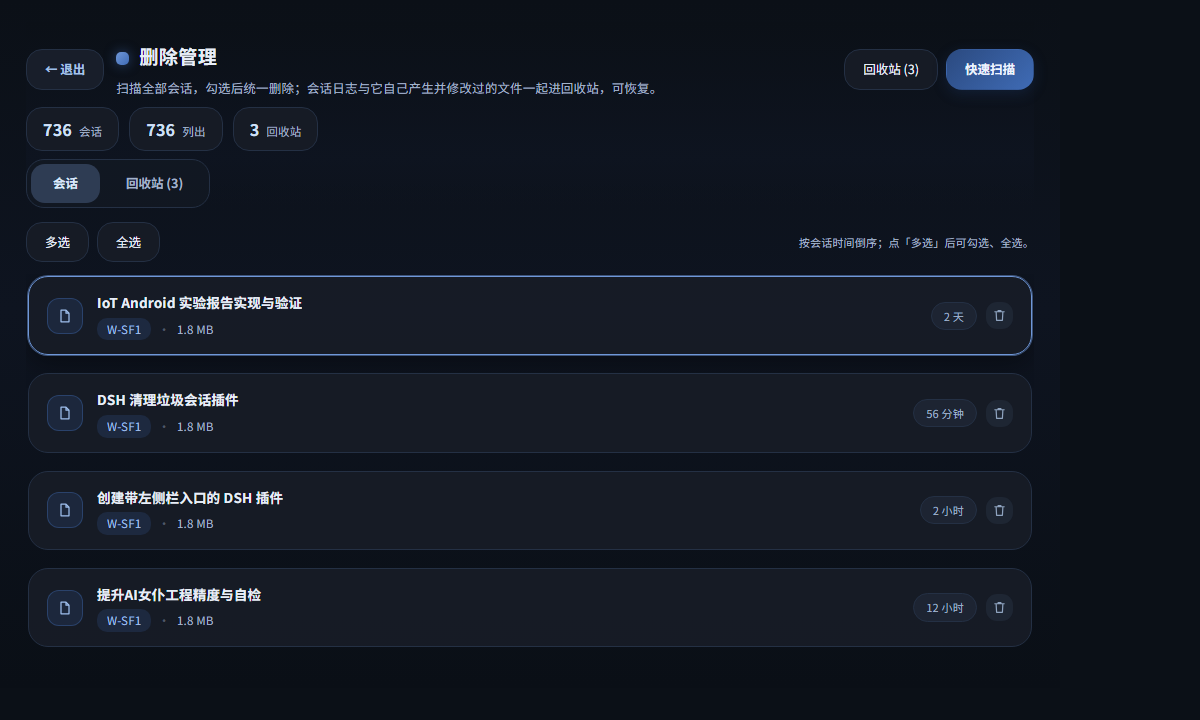
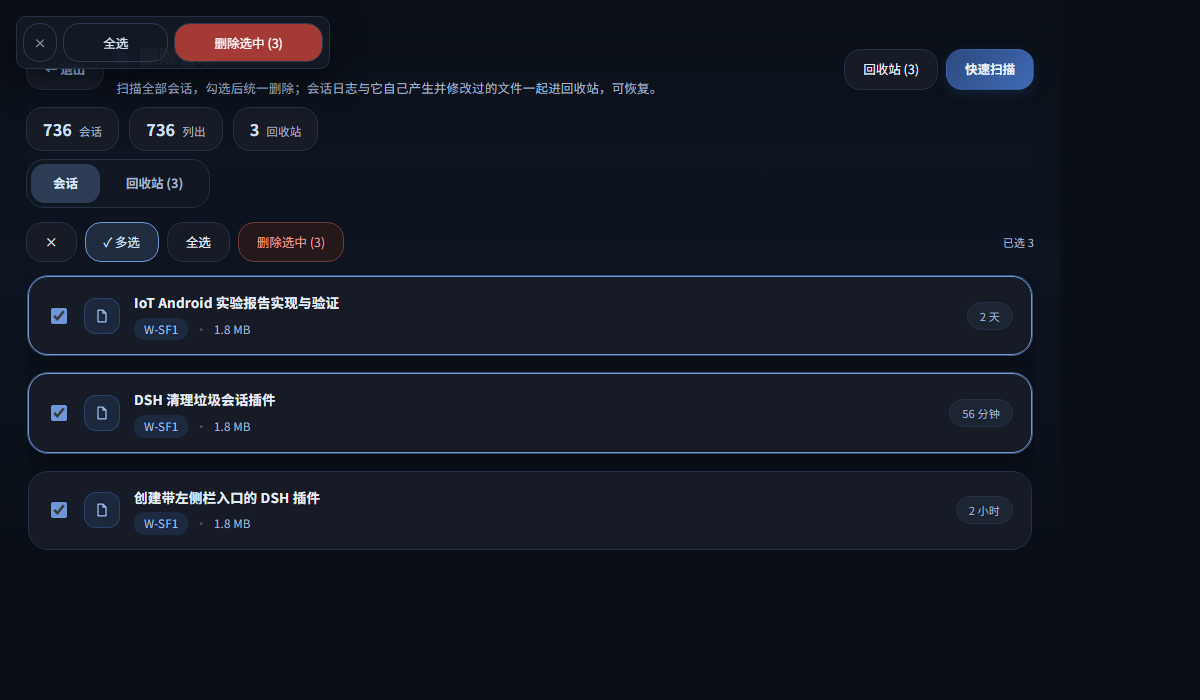
feat: × 移到左侧；页面多选工具条加 × 并隐藏重复开关（1.2.2）

diff --git a/preview.html b/preview.html
@@ -1,6 +1,12 @@
 <!doctype html><html lang="zh"><head><meta charset="utf-8">
 <style>body{margin:0;background:#0b1017;font-family:"Noto Sans SC","Microsoft YaHei UI",sans-serif}
 html .__md_page{display:flex;flex-direction:column;gap:12px;max-width:1060px;height:100%;overflow-y:auto;overflow-x:hidden;padding:22px 26px 30px;font-size:13px;box-sizing:border-box;font-family:"Noto Sans SC","Microsoft YaHei UI","Microsoft YaHei","Segoe UI",system-ui,sans-serif;letter-spacing:.2px;line-height:1.65;--md-ink:#e8eef8;--md-ink2:#a3b3c9;--md-card:rgba(23,28,38,.94);--md-card2:rgba(30,36,48,.92);--md-line:#243044;--md-accent:#3f6bb5;--md-accent2:#6f97d8;--md-accent-deep:#2b4a80;color:var(--md-ink);background:linear-gradient(180deg,#0b1017 0%,#0e1420 45%,#0a0f16 100%)}.__md_page::-webkit-scrollbar{width:10px}.__md_page::-webkit-scrollbar-thumb{background:rgba(120,150,190,.28);border-radius:6px}.__md_sticky{position:sticky;top:-22px;z-index:4;display:flex;flex-direction:column;gap:8px;padding:18px 0 2px;background:linear-gradient(180deg,rgba(11,16,23,.98) 0%,rgba(14,20,32,.94) 72%,rgba(10,15,22,0) 100%)}.__md_head{display:flex;align-items:center;gap:12px}.__md_headText{flex:1 1 auto;min-width:0}.__md_title{font-size:19px;font-weight:700;margin:0;letter-spacing:.5px;color:var(--md-ink)}.__md_title:before{content:"";display:inline-block;width:13px;height:13px;border-radius:5px;margin-right:10px;vertical-align:-1px;background:linear-gradient(135deg,var(--md-accent2),var(--md-accent));box-shadow:0 0 12px rgba(63,107,181,.55)}.__md_sub{margin:6px 0 0;font-size:12.5px;line-height:1.7;color:var(--md-ink2)}.__md_row{display:flex;align-items:center;gap:8px;flex-wrap:wrap}.__md_btn{border:1px solid var(--md-line);background:var(--md-card);color:var(--md-ink);border-radius:16px;padding:9px 18px;font:inherit;font-size:12.5px;cursor:pointer;white-space:nowrap;transition:transform .1s ease,border-color .18s,color .18s,background .18s}.__md_btn:hover:not(:disabled){border-color:var(--md-accent2);color:#cfe0f8;transform:translateY(-1px)}.__md_btnExit:hover:not(:disabled){border-color:transparent;background:rgba(32,40,54,.9);color:#cfe0f8;transform:none}.__md_btn:disabled{opacity:.4;cursor:default}.__md_btnPrimary{border-color:transparent;background:linear-gradient(135deg,var(--md-accent-deep),var(--md-accent));color:#eef4ff;font-weight:600;box-shadow:0 4px 14px rgba(30,60,110,.32)}.__md_btnPrimary:hover:not(:disabled){color:#fff;border-color:transparent}.__md_btnDanger{border-color:#6b3a3a;color:#e79c96;background:rgba(38,24,26,.9)}.__md_btnSoft{border-color:#2c4472;color:#a8c4ea;background:rgba(26,36,54,.9)}.__md_btnActive{border-color:var(--md-accent2);color:#cfe0f8;background:rgba(35,45,64,.95)}.__md_btnExit{border-color:var(--md-line);background:rgba(26,32,44,.9);color:#a8c4ea;font-weight:600}.__md_metaBar{display:flex;gap:10px;flex-wrap:wrap}.__md_stat{display:flex;align-items:baseline;gap:7px;padding:8px 16px;border-radius:16px;background:var(--md-card);border:1px solid var(--md-line)}.__md_stat b{font-size:16px;font-weight:700;color:#cfe0f8;font-variant-numeric:tabular-nums}.__md_stat i{font-style:normal;font-size:11.5px;color:var(--md-ink2)}.__md_tabs{display:inline-flex;gap:4px;padding:4px;border-radius:18px;background:rgba(18,24,34,.9);border:1px solid var(--md-line);width:max-content}.__md_tab{border:none;background:transparent;color:var(--md-ink2);font:inherit;font-size:12.5px;padding:9px 22px;border-radius:14px;cursor:pointer;font-weight:600;transition:background .18s,color .18s}.__md_tabOn{background:rgba(48,62,86,.95);color:#dbe8fa}.__md_toolbar{display:flex;align-items:center;gap:8px;flex-wrap:wrap;padding:0}.__md_list{display:flex;flex-direction:column;gap:9px;max-height:calc(100vh - 340px);overflow-y:auto;padding:2px;min-height:160px}.__md_card{display:flex;align-items:center;gap:14px;padding:14px 18px;border-radius:20px;background:var(--md-card);border:1px solid var(--md-line);transition:transform .12s ease,border-color .18s,background .18s}.__md_card:hover{transform:translateY(-1px);background:var(--md-card2);border-color:#31415c}.__md_cardOn{border-color:var(--md-accent2);box-shadow:0 0 0 1px rgba(111,151,216,.5),0 10px 26px rgba(0,0,0,.35)}.__md_avatar{width:34px;height:34px;border-radius:12px;flex:none;display:flex;align-items:center;justify-content:center;color:#9fc0ee;background:rgba(63,107,181,.16);border:1px solid rgba(63,107,181,.4)}.__md_item{min-width:0;flex:1 1 auto}.__md_itemTitle{overflow:hidden;text-overflow:ellipsis;white-space:nowrap;font-size:13.5px;font-weight:600;letter-spacing:.2px;color:var(--md-ink)}.__md_itemMeta{display:flex;align-items:center;gap:7px;margin-top:4px;font-size:11.5px;color:var(--md-ink2);overflow:hidden;white-space:nowrap}.__md_tag{padding:2px 10px;border-radius:10px;background:rgba(63,107,181,.18);color:#9fbde6;max-width:230px;overflow:hidden;text-overflow:ellipsis}.__md_dot{opacity:.4}.__md_right{display:flex;align-items:center;gap:9px;flex:none}.__md_pill{font-size:11px;color:#9fb0c8;padding:4px 12px;border-radius:999px;background:rgba(30,38,52,.9);border:1px solid var(--md-line);white-space:nowrap}.__md_empty{padding:40px 16px;text-align:center;color:var(--md-ink2);font-size:12.5px;display:flex;flex-direction:column;align-items:center}.__md_notice{font-size:12px;color:#a9c8ee;background:rgba(26,38,58,.9);border:1px solid #2c4472;border-radius:14px;padding:10px 14px;white-space:pre-wrap}.__md_err{font-size:12px;color:#efa9a3;background:rgba(44,26,28,.92);border:1px solid #6b3a3a;border-radius:14px;padding:10px 14px;white-space:pre-wrap}.__md_hint{font-size:11px;color:var(--md-ink2)}.__md_check{accent-color:var(--md-accent2);cursor:pointer;width:16px;height:16px;flex:none}.__md_iconBtn{border:none;background:rgba(32,40,54,.85);color:#8fa4c0;cursor:pointer;padding:6px;border-radius:11px;display:inline-flex;align-items:center;transition:color .18s,background .18s}.__md_iconBtn:hover{color:#f0a8a2;background:rgba(60,32,34,.9)}.__md_mask,.__md_bar{--md-ink:#e8eef8;--md-ink2:#93a1b8;--md-card:rgba(23,28,38,.94);--md-card2:rgba(30,36,48,.92);--md-line:#243044;--md-accent:#3f6bb5;--md-accent2:#6f97d8;--md-accent-deep:#2b4a80;color:#e8eef8}.__md_mask{position:fixed;inset:0;background:rgba(3,7,12,.66);backdrop-filter:blur(4px);display:flex;align-items:center;justify-content:center;z-index:1000}.__md_dialog{width:min(560px,92vw);background:linear-gradient(180deg,#161c27,#111721);color:var(--md-ink);border:1px solid var(--md-line);border-radius:24px;padding:26px 28px;display:flex;flex-direction:column;gap:13px;box-shadow:0 30px 80px rgba(0,0,0,.6)}.__md_dialogTitle{font-size:16px;font-weight:700;margin:0;letter-spacing:.4px}.__md_dialogBody{font-size:12.5px;color:var(--md-ink2);white-space:pre-wrap;margin:0;line-height:1.7}.__md_dialogList{max-height:150px;overflow:auto;border:1px solid var(--md-line);border-radius:14px;padding:9px 13px;font-size:12px;background:rgba(18,24,34,.9)}.__md_dialogList div{overflow:hidden;text-overflow:ellipsis;white-space:nowrap;padding:2px 0}.__md_opt{display:flex;gap:10px;align-items:flex-start;font-size:12px;padding:12px 14px;border:1px solid var(--md-line);border-radius:16px;background:rgba(24,31,42,.9)}.__md_files{margin:0;padding-left:18px;font-size:11.5px;color:var(--md-ink2);max-height:120px;overflow:auto}</style></head><body>
+
+<div class="__md_bar" style="position:fixed;left:16px;top:16px;width:300px;z-index:45;display:flex;gap:6px;padding:6px;border-radius:10px;background:rgba(20,26,36,.97);border:1px solid #243044;box-shadow:0 12px 32px rgba(0,0,0,.5)">
+  <button class="__md_btn" style="flex:0 0 auto;width:34px;padding:2px 0;background:transparent;color:#93a1b8;border-color:#2c3a52">×</button>
+  <button class="__md_btn" style="flex:1 1 auto;background:transparent;color:#dbe8fa;border-color:#2c3a52">全选</button>
+  <button class="__md_btn" style="flex:1 1 auto;color:#fff;border-color:#2c3a52;background:#a33a33">删除选中 (3)</button>
+</div>
 <div class="__md_page">
   <div class="__md_sticky">
     <div class="__md_head">
@@ -11,52 +17,34 @@ html .__md_page{display:flex;flex-direction:column;gap:12px;max-width:1060px;hei
     <div class="__md_metaBar"><span class="__md_stat"><b>736</b><i>会话</i></span><span class="__md_stat"><b>736</b><i>列出</i></span><span class="__md_stat"><b>3</b><i>回收站</i></span></div>
     <div class="__md_tabs"><button class="__md_tab __md_tabOn">会话</button><button class="__md_tab">回收站 (3)</button></div>
   </div>
-  <div class="__md_toolbar"><button class="__md_btn">多选</button><button class="__md_btn">全选</button><span style="flex:1 1 auto"></span><span class="__md_hint">按会话时间倒序；点「多选」后可勾选、全选。</span></div>
+  <div class="__md_toolbar">
+    <button class="__md_btn">×</button>
+    <button class="__md_btn __md_btnActive">✓ 多选</button>
+    <button class="__md_btn">全选</button>
+    <button class="__md_btn __md_btnDanger">删除选中 (3)</button>
+    <span style="flex:1 1 auto"></span><span class="__md_hint">已选 3</span>
+  </div>
   <div class="__md_list">
     
   <div class="__md_card __md_cardOn" style="margin-bottom:9px">
+    <input type="checkbox" class="__md_check" checked>
     <div class="__md_avatar"><svg width="16" height="16" viewBox="0 0 16 16" fill="none"><path d="M4 2.2h5l3 3v8.6H4z" stroke="currentColor" stroke-width="1.25" stroke-linejoin="round"/><path d="M9 2.2V5.2h3" stroke="currentColor" stroke-width="1.25" stroke-linejoin="round"/></svg></div>
-    <div class="__md_item">
-      <div class="__md_itemTitle">IoT Android 实验报告实现与验证</div>
-      <div class="__md_itemMeta"><span class="__md_tag">W-SF1</span><span class="__md_dot">·</span><span>1.8 MB</span></div>
-    </div>
-    <div class="__md_right"><span class="__md_pill">2 天</span><button class="__md_iconBtn"><svg width="15" height="15" viewBox="0 0 16 16" fill="none"><path d="M3 4h10M6.5 4V2.8h3V4M4.4 4l.5 9.1h6.2l.5-9.1" stroke="currentColor" stroke-width="1.3" stroke-linecap="round" stroke-linejoin="round"/></svg></button></div>
+    <div class="__md_item"><div class="__md_itemTitle">IoT Android 实验报告实现与验证</div><div class="__md_itemMeta"><span class="__md_tag">W-SF1</span><span class="__md_dot">·</span><span>1.8 MB</span></div></div>
+    <div class="__md_right"><span class="__md_pill">2 天</span></div>
+  </div>
+    
+  <div class="__md_card __md_cardOn" style="margin-bottom:9px">
+    <input type="checkbox" class="__md_check" checked>
+    <div class="__md_avatar"><svg width="16" height="16" viewBox="0 0 16 16" fill="none"><path d="M4 2.2h5l3 3v8.6H4z" stroke="currentColor" stroke-width="1.25" stroke-linejoin="round"/><path d="M9 2.2V5.2h3" stroke="currentColor" stroke-width="1.25" stroke-linejoin="round"/></svg></div>
+    <div class="__md_item"><div class="__md_itemTitle">DSH 清理垃圾会话插件</div><div class="__md_itemMeta"><span class="__md_tag">W-SF1</span><span class="__md_dot">·</span><span>1.8 MB</span></div></div>
+    <div class="__md_right"><span class="__md_pill">56 分钟</span></div>
   </div>
     
   <div class="__md_card" style="margin-bottom:9px">
+    <input type="checkbox" class="__md_check" checked>
     <div class="__md_avatar"><svg width="16" height="16" viewBox="0 0 16 16" fill="none"><path d="M4 2.2h5l3 3v8.6H4z" stroke="currentColor" stroke-width="1.25" stroke-linejoin="round"/><path d="M9 2.2V5.2h3" stroke="currentColor" stroke-width="1.25" stroke-linejoin="round"/></svg></div>
-    <div class="__md_item">
-      <div class="__md_itemTitle">DSH 清理垃圾会话插件</div>
-      <div class="__md_itemMeta"><span class="__md_tag">W-SF1</span><span class="__md_dot">·</span><span>1.8 MB</span></div>
-    </div>
-    <div class="__md_right"><span class="__md_pill">56 分钟</span><button class="__md_iconBtn"><svg width="15" height="15" viewBox="0 0 16 16" fill="none"><path d="M3 4h10M6.5 4V2.8h3V4M4.4 4l.5 9.1h6.2l.5-9.1" stroke="currentColor" stroke-width="1.3" stroke-linecap="round" stroke-linejoin="round"/></svg></button></div>
-  </div>
-    
-  <div class="__md_card" style="margin-bottom:9px">
-    <div class="__md_avatar"><svg width="16" height="16" viewBox="0 0 16 16" fill="none"><path d="M4 2.2h5l3 3v8.6H4z" stroke="currentColor" stroke-width="1.25" stroke-linejoin="round"/><path d="M9 2.2V5.2h3" stroke="currentColor" stroke-width="1.25" stroke-linejoin="round"/></svg></div>
-    <div class="__md_item">
-      <div class="__md_itemTitle">创建带左侧栏入口的 DSH 插件</div>
-      <div class="__md_itemMeta"><span class="__md_tag">W-SF1</span><span class="__md_dot">·</span><span>1.8 MB</span></div>
-    </div>
-    <div class="__md_right"><span class="__md_pill">2 小时</span><button class="__md_iconBtn"><svg width="15" height="15" viewBox="0 0 16 16" fill="none"><path d="M3 4h10M6.5 4V2.8h3V4M4.4 4l.5 9.1h6.2l.5-9.1" stroke="currentColor" stroke-width="1.3" stroke-linecap="round" stroke-linejoin="round"/></svg></button></div>
-  </div>
-    
-  <div class="__md_card" style="margin-bottom:9px">
-    <div class="__md_avatar"><svg width="16" height="16" viewBox="0 0 16 16" fill="none"><path d="M4 2.2h5l3 3v8.6H4z" stroke="currentColor" stroke-width="1.25" stroke-linejoin="round"/><path d="M9 2.2V5.2h3" stroke="currentColor" stroke-width="1.25" stroke-linejoin="round"/></svg></div>
-    <div class="__md_item">
-      <div class="__md_itemTitle">提升AI女仆工程精度与自检</div>
-      <div class="__md_itemMeta"><span class="__md_tag">W-SF1</span><span class="__md_dot">·</span><span>1.8 MB</span></div>
-    </div>
-    <div class="__md_right"><span class="__md_pill">12 小时</span><button class="__md_iconBtn"><svg width="15" height="15" viewBox="0 0 16 16" fill="none"><path d="M3 4h10M6.5 4V2.8h3V4M4.4 4l.5 9.1h6.2l.5-9.1" stroke="currentColor" stroke-width="1.3" stroke-linecap="round" stroke-linejoin="round"/></svg></button></div>
-  </div>
-    
-  <div class="__md_card" style="margin-bottom:9px">
-    <div class="__md_avatar"><svg width="16" height="16" viewBox="0 0 16 16" fill="none"><path d="M4 2.2h5l3 3v8.6H4z" stroke="currentColor" stroke-width="1.25" stroke-linejoin="round"/><path d="M9 2.2V5.2h3" stroke="currentColor" stroke-width="1.25" stroke-linejoin="round"/></svg></div>
-    <div class="__md_item">
-      <div class="__md_itemTitle">零壹自检</div>
-      <div class="__md_itemMeta"><span class="__md_tag">W-SF1</span><span class="__md_dot">·</span><span>1.8 MB</span></div>
-    </div>
-    <div class="__md_right"><span class="__md_pill">14 小时</span><button class="__md_iconBtn"><svg width="15" height="15" viewBox="0 0 16 16" fill="none"><path d="M3 4h10M6.5 4V2.8h3V4M4.4 4l.5 9.1h6.2l.5-9.1" stroke="currentColor" stroke-width="1.3" stroke-linecap="round" stroke-linejoin="round"/></svg></button></div>
+    <div class="__md_item"><div class="__md_itemTitle">创建带左侧栏入口的 DSH 插件</div><div class="__md_itemMeta"><span class="__md_tag">W-SF1</span><span class="__md_dot">·</span><span>1.8 MB</span></div></div>
+    <div class="__md_right"><span class="__md_pill">2 小时</span></div>
   </div>
   </div>
 </div>

diff --git a/client.js b/client.js
@@ -651,9 +651,16 @@ window.__ModuleLoader__.load({
           background: 'rgba(20,26,36,.97)', color: '#dbe8fa', boxShadow: '0 12px 32px rgba(0,0,0,.5)', border: '1px solid #243044'
         }
       },
+        h('button', {
+          type: 'button',
+          className: '__md_btn',
+          title: t('clearAll'),
+          'aria-label': t('clearAll'),
+          style: { flex: '0 0 auto', width: 34, padding: '2px 0', background: 'transparent', color: '#93a1b8', borderColor: '#2c3a52' },
+          onClick: function () { setStore({ selectMode: false, selected: {} }); }
+        }, '×'),
         h('button', { type: 'button', className: '__md_btn', style: { flex: '1 1 auto', background: 'transparent', color: '#dbe8fa', borderColor: '#2c3a52' }, onClick: function () { setSelected(all.map(function (row) { return row.id; }), !allOn); } }, allOn ? t('clearAll') : t('selectAll')),
-        h('button', { type: 'button', className: '__md_btn', style: { flex: '1 1 auto', color: '#fff', borderColor: '#2c3a52', background: count > 0 ? '#a33a33' : 'transparent' }, disabled: count === 0, onClick: function () { openDeleteDialog(Object.keys(store.get().selected)); } }, t('deleteSelected') + (count > 0 ? ' (' + count + ')' : '')),
-        h('button', { type: 'button', className: '__md_btn', style: { background: 'transparent', color: '#93a1b8', borderColor: '#2c3a52' }, onClick: function () { setStore({ selectMode: false, selected: {} }); } }, '×')
+        h('button', { type: 'button', className: '__md_btn', style: { flex: '1 1 auto', color: '#fff', borderColor: '#2c3a52', background: count > 0 ? '#a33a33' : 'transparent' }, disabled: count === 0, onClick: function () { openDeleteDialog(Object.keys(store.get().selected)); } }, t('deleteSelected') + (count > 0 ? ' (' + count + ')' : ''))
       );
     }
 
@@ -831,15 +838,24 @@ window.__ModuleLoader__.load({
         ),
 
         tab === 'sessions' ? h('div', { className: '__md_toolbar' },
-          h('button', {
+          state.selectMode ? h('button', {
             type: 'button',
-            className: '__md_btn' + (state.selectMode ? ' __md_btnActive' : ''),
+            className: '__md_btn',
+            title: t('clearAll'),
+            'aria-label': t('clearAll'),
             onClick: function () {
-              var next = !state.selectMode;
-              setStore({ selectMode: next });
-              if (!next) clearSelected();
+              setStore({ selectMode: false });
+              clearSelected();
             }
-          }, (state.selectMode ? '✓ ' : '') + t('selectMode')),
+          }, '×') : null,
+          state.selectMode ? null : h('button', {
+            type: 'button',
+            className: '__md_btn',
+            onClick: function () {
+              setStore({ selectMode: true });
+              if (!store.get().scan) void runScan(false);
+            }
+          }, t('selectMode')),
           state.selectMode ? h('button', { type: 'button', className: '__md_btn', onClick: function () { setSelected(all.map(function (row) { return row.id; }), !allOn); } }, allOn ? t('clearAll') : t('selectAll')) : null,
           state.selectMode && count > 0 ? h('button', {
             type: 'button',

diff --git a/CHANGELOG.md b/CHANGELOG.md
@@ -1,5 +1,12 @@
 # Changelog
 
+## [1.2.2] — 2026-11-06
+
+### Changed
+
+- 侧栏浮动多选条：取消全选的「×」移到最左侧。
+- 删除管理页进入多选后，工具条最左侧也出现同名「×」（退出多选并清空选择）；此时隐藏多余的「多选」开关，「全选 / 删除选中(N)」保留在右侧。
+
 ## [1.2.1] — 2026-11-06
 
 ### Changed
